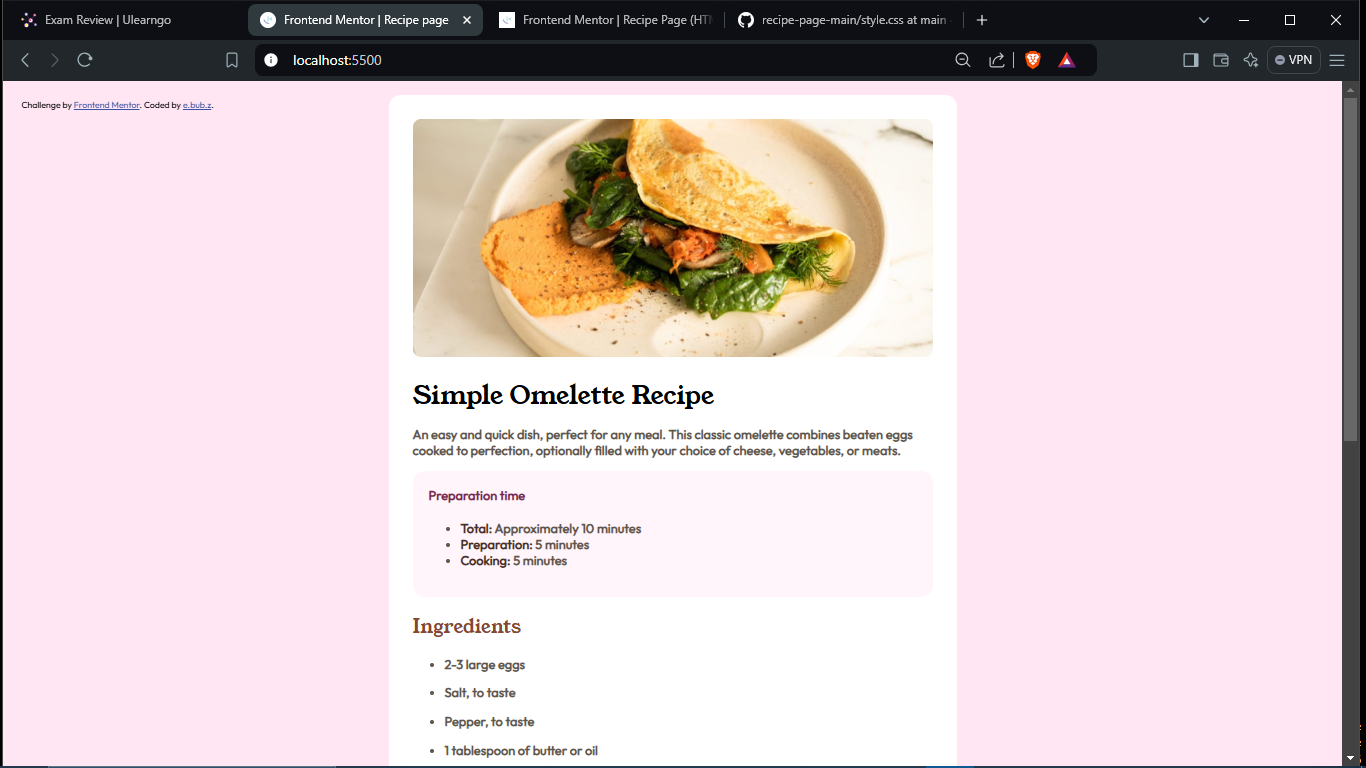
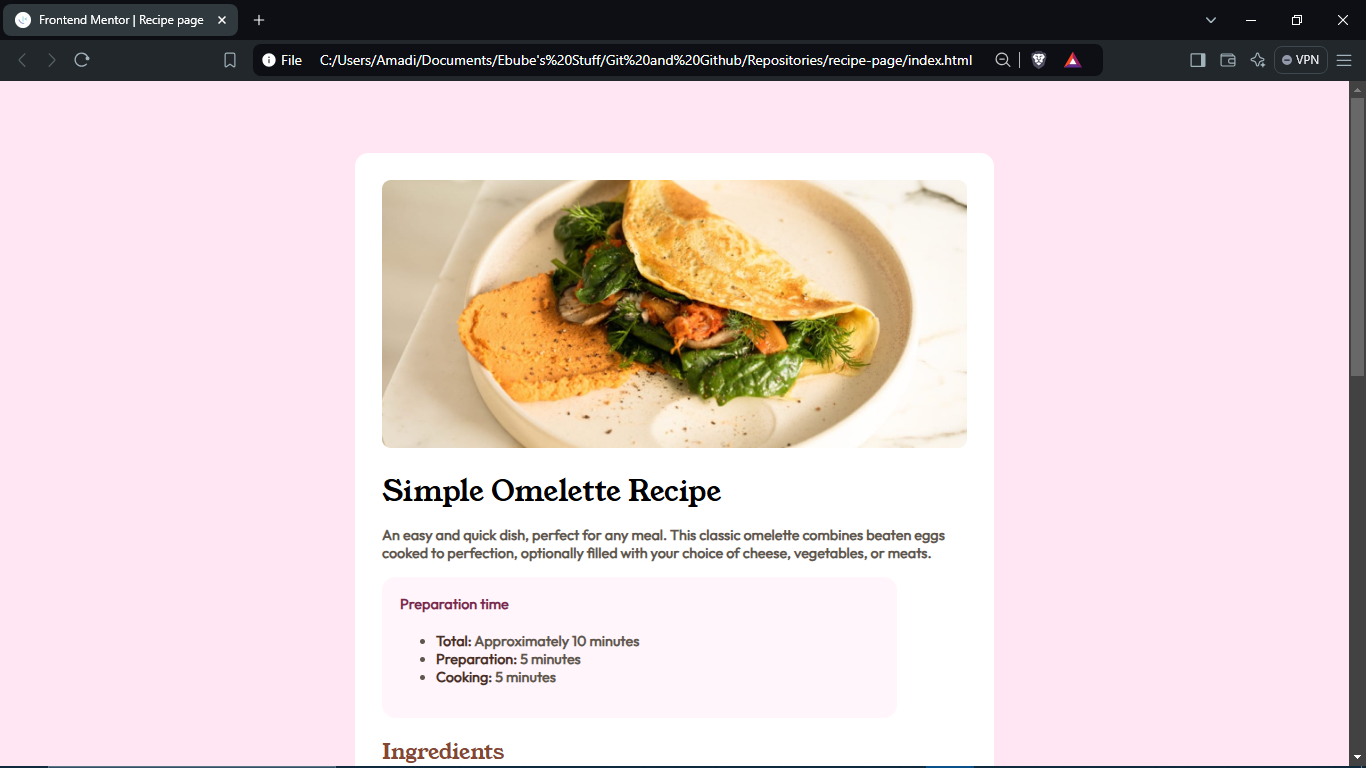
comm

diff --git a/style.css b/style.css
@@ -1,8 +1,11 @@
 body {
-  background-color: hsl(330, 100%, 95%);
   font-family: Outfit;
-  display: flex;
-  justify-content: center;
+  margin:0;
+}
+.main {
+  background-color: hsl(330, 100%, 95%);
+  padding: 5rem 0 0;
+  margin-bottom: 1rem;
 }
 img {
   width:650px;
@@ -10,33 +13,35 @@ img {
 }
 figure {
   margin: 0;
+  width: 650px;
   padding: 0;
 }
 .container {
   width: 650px;
-  max-width: 736px;
   height: auto;
   display: flex;
   justify-content: center;
   flex-direction: column;
   padding: 30px;
   background-color: hsl(0, 0%, 100%);
-  margin: 10px;
+  margin: auto;
   border-radius: 15px;
 }
 .attribution {
+  width:650px;
+  height:auto;
+  text-align: center;
+  padding: 0;
   font-size: 11px;
-  position: fixed;
-  top: 0%;
-  left: 0%;
-  padding: 3px;
-  margin:20px;
+  margin: 5rem auto 1rem;
 }
 .attribution a {
   color: hsl(228, 45%, 44%);
 }
 .prep {
   background-color: hsl(330, 100%, 98%);
+  width: 85%;
+  margin-right: 0;
   padding:20px 0 20px 20px;
   border-radius: 15px;
 }

diff --git a/index.html b/index.html
@@ -13,7 +13,7 @@
 
 </head>
 <body>
-  <main>
+  <div class="main" role="main">
     <div class="container">
       <figure>
         <img src="./assets/images/image-omelette.jpeg" alt="omelette image">
@@ -89,12 +89,14 @@
         </div>
         <hr>
       </div>
+      
     </div>
-  </main>
-  
-  <div class="attribution">
-    Challenge by <a href="https://www.frontendmentor.io?ref=challenge" target="_blank" rel="noopener">Frontend Mentor</a>. 
-    Coded by <a href="#">e.bub.z</a>.
+    <div class="attribution" role="contentinfo">
+      Challenge by <a href="https://www.frontendmentor.io?ref=challenge" target="_blank" rel="noopener">Frontend Mentor</a>. 
+      Coded by <a href="#">e.bub.z</a>.
+    </div>
   </div>
+  
+  
 </body>
 </html>
